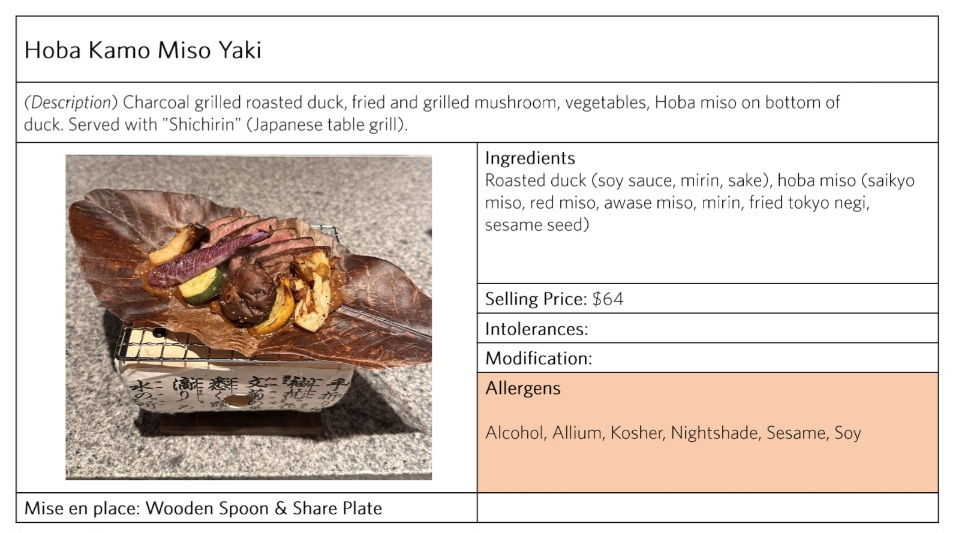
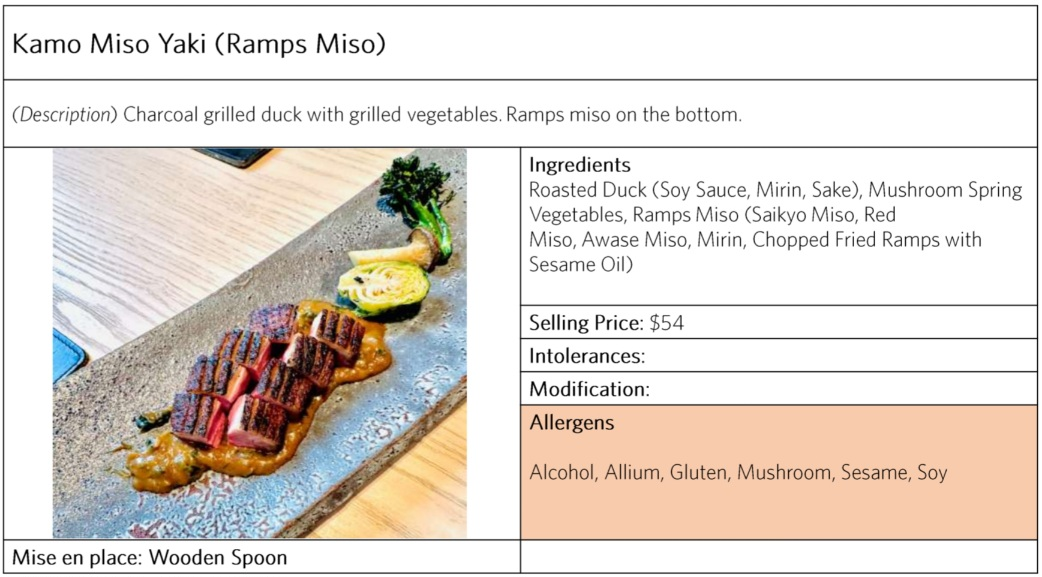
update spring menu items

diff --git a/mains.html b/mains.html
@@ -167,8 +167,9 @@
 
       
         <div class="item" style="cursor:pointer;" onclick="openPic('kamo-miso-yaki');">
-            <b>Kamo Miso Yaki</b><span class="price">68</span><br>
-            Charcoal Grilled Duck Breast, Hoba Miso
+            <b>Kamo Miso Yaki</b><span class="price">54</span><br>
+            Charcoal Grilled Duck, Grilled Vegetables,<br>
+            Ramps Miso
         </div>
 
         <div class="item" style="cursor:pointer;" onclick="openPic('hoba-tenderloin');">
@@ -967,8 +968,9 @@
   <img src="/images/kamo-miso-yaki.jpg">
     <figcaption>
       <b>Kamo Miso Yaki</b>
-      <span class="price">68</span><br>
-      Charcoal Grilled Duck Breast, Hoba Miso
+      <span class="price">54</span><br>
+      Charcoal Grilled Duck, Grilled Vegetables,<br>
+      Ramps Miso
     </figcaption>
   </figure>
 </div>
